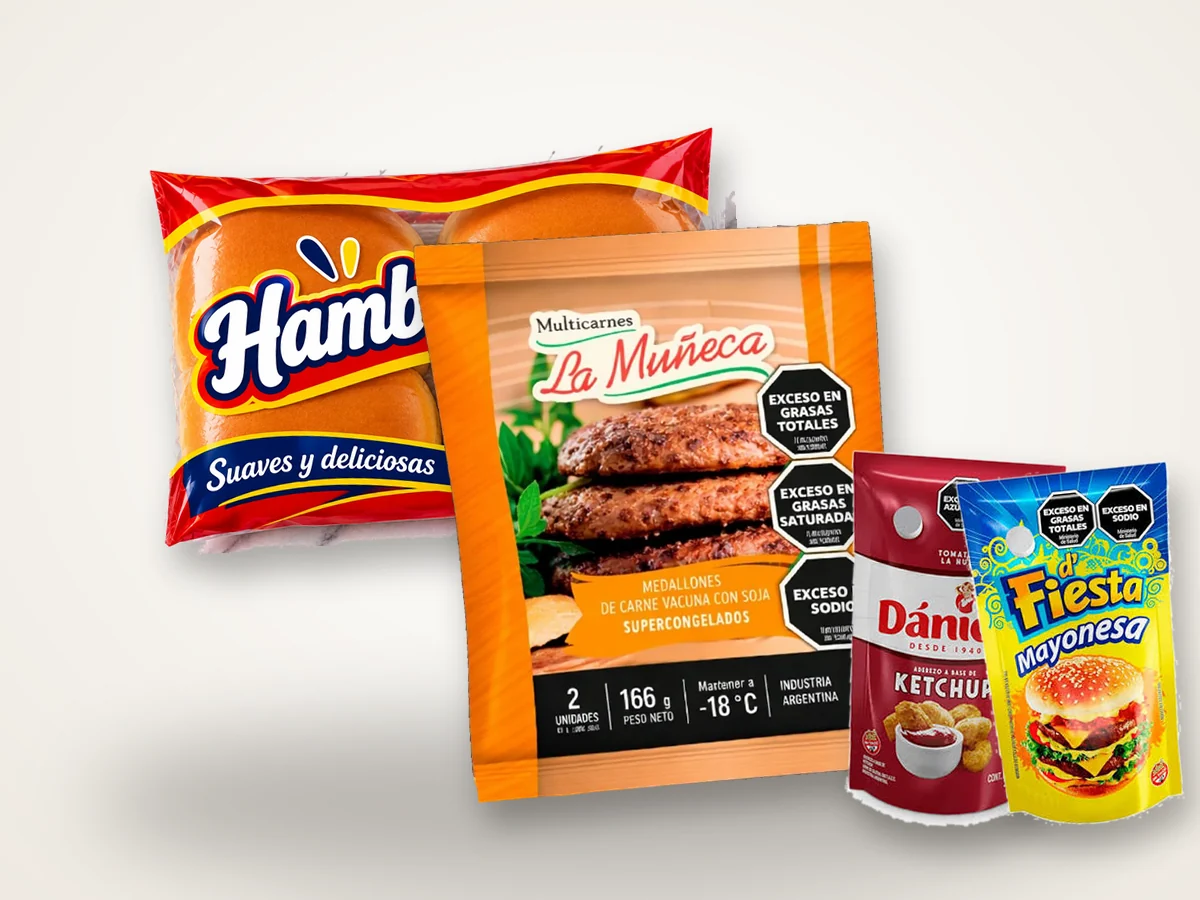
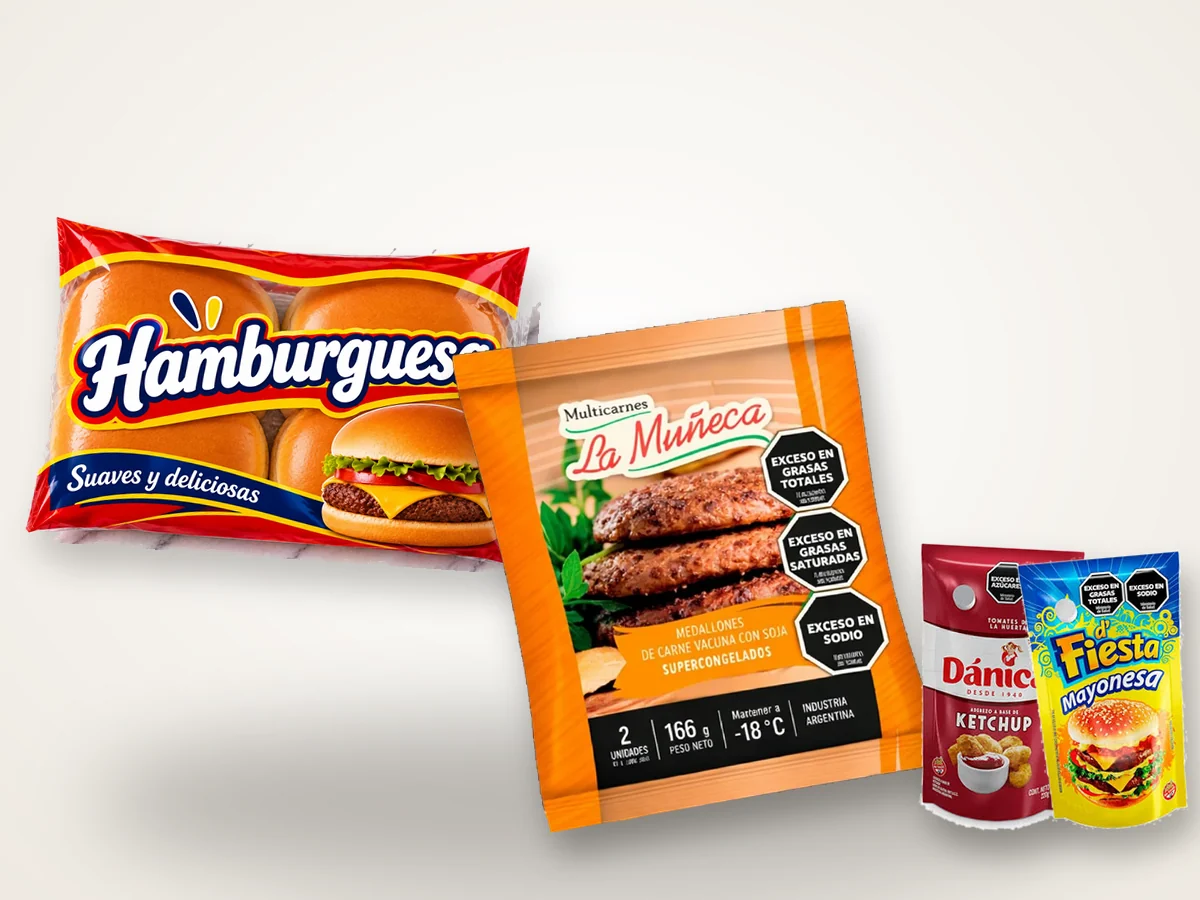
Fotos de combos más prolijas, promos fuera de la foto y salto correcto a cada categoría
- Composiciones nuevas: pan entero, paquete al centro y aderezos al costado, con aire
- Se quita la placa de cheddar/papas pay de la foto (queda el aviso con interruptor)
- Foto del destacado completa, sin recortes
- Los enlaces a categorías corrigen el desplazamiento mientras cargan imágenes

Claude-Session: https://claude.ai/code/session_018TW5pR3W6wvbYrCa5wfTa9

diff --git a/src/lib/scrollToHash.js b/src/lib/scrollToHash.js
@@ -1,0 +1,51 @@
+/**
+ * Scroll a un ancla interna que se corrige mientras cargan imágenes y fuentes.
+ * Sin esto, al tocar "Panchos" la página podía quedar arriba (en Promociones)
+ * porque el contenido anterior cambia de alto después del salto.
+ */
+export function scrollToHash(hash, { smooth = true } = {}) {
+  const el = hash && hash.length > 1 ? document.getElementById(decodeURIComponent(hash.slice(1))) : null
+  if (!el) return false
+  const reduce = window.matchMedia('(prefers-reduced-motion: reduce)').matches
+  el.scrollIntoView({ behavior: smooth && !reduce ? 'smooth' : 'auto', block: 'start' })
+
+  // Durante ~2,5 s, si el destino se movió y el usuario no scrolleó, se reajusta.
+  let userMoved = false
+  const stop = () => (userMoved = true)
+  window.addEventListener('wheel', stop, { passive: true, once: true })
+  window.addEventListener('touchstart', stop, { passive: true, once: true })
+  window.addEventListener('keydown', stop, { once: true })
+  const offset = () => parseFloat(getComputedStyle(el).scrollMarginTop) || 0
+  let last = null
+  const started = performance.now()
+  const tick = () => {
+    if (userMoved || performance.now() - started > 2500) return
+    const top = el.getBoundingClientRect().top - offset()
+    // espera a que termine el scroll suave (posición estable) antes de corregir
+    if (last !== null && Math.abs(top - last) < 1 && Math.abs(top) > 4) {
+      window.scrollBy({ top, behavior: 'auto' })
+    }
+    last = el.getBoundingClientRect().top - offset()
+    setTimeout(tick, 120)
+  }
+  setTimeout(tick, 120)
+  return true
+}
+
+/** Intercepta los clics en enlaces internos (#…) de toda la página. */
+export function installHashLinks() {
+  const onClick = (e) => {
+    if (e.defaultPrevented || e.button !== 0 || e.metaKey || e.ctrlKey || e.shiftKey || e.altKey) return
+    const a = e.target.closest?.('a[href^="#"]')
+    if (!a) return
+    const hash = a.getAttribute('href')
+    if (hash.length < 2 || !document.getElementById(decodeURIComponent(hash.slice(1)))) return
+    e.preventDefault()
+    history.pushState(null, '', hash)
+    // deja que se cierren menús/diálogos (que liberan el scroll del body) antes de desplazar
+    requestAnimationFrame(() => scrollToHash(hash))
+  }
+  document.addEventListener('click', onClick)
+  if (location.hash) setTimeout(() => scrollToHash(location.hash, { smooth: false }), 50)
+  return () => document.removeEventListener('click', onClick)
+}

diff --git a/src/components/product/ProductImage.jsx b/src/components/product/ProductImage.jsx
@@ -3,13 +3,11 @@
  *  - pack:  paquete recortado, centrado sobre un círculo celeste.
  *  - photo: foto real completa sobre su propio fondo desenfocado (sin recortar el paquete).
  *  - por defecto: composición del combo que ocupa todo el recuadro.
- * Si el producto tiene `addon` con `promo` (cheddar / papas pay), muestra la placa promocional
- * chica en la esquina superior derecha, sobre la zona libre de la composición.
+ * Las promos (cheddar / papas pay) no se dibujan sobre la foto: van en el aviso debajo del combo.
  */
 export default function ProductImage({ combo, large = false, className = '', badge }) {
   const anim = 'transition-transform duration-500 group-hover:scale-[1.04] motion-reduce:transition-none'
   const loading = large ? 'eager' : 'lazy'
-  const promo = combo.addon?.promo
   return (
     <div className={`relative aspect-[4/3] overflow-hidden bg-crema ${className}`}>
       {combo.pack ? (
@@ -46,17 +44,6 @@ export default function ProductImage({ combo, large = false, className = '', bad
         <span className="absolute top-0 left-0 bg-rojo px-3 py-1.5 text-[0.7rem] font-extrabold tracking-[0.14em] text-white uppercase">{badge}</span>
       )}
 
-      {promo && (
-        <img
-          src={promo}
-          alt={combo.addon.tag}
-          loading={loading}
-          decoding="async"
-          className={`promo-badge absolute top-2 right-2 rotate-3 rounded-md shadow-[0_10px_24px_-8px_rgb(23_38_56/0.6)] ring-2 ring-white transition-transform duration-300 group-hover:rotate-0 ${
-            large ? 'w-[30%]' : 'w-[33%]'
-          }`}
-        />
-      )}
     </div>
   )
 }

diff --git a/src/components/ComboCard.jsx b/src/components/ComboCard.jsx
@@ -57,7 +57,7 @@ export default function ComboCard({ combo, variant = 'default', badge }) {
 
   const imageButton = (cls, large = false) => (
     <button type="button" onClick={open} className={`group/img relative block w-full text-left ${cls}`} aria-label={`Ver detalle de ${combo.name}`}>
-      <ProductImage combo={combo} large={large} badge={badge} className="h-full" />
+      <ProductImage combo={combo} large={large} badge={badge} className="w-full" />
       <span className="absolute bottom-3 left-3 grid size-10 translate-y-2 place-items-center rounded-full bg-white/95 text-navy opacity-0 shadow-soft transition-[opacity,transform] duration-300 group-hover:translate-y-0 group-hover:opacity-100">
         <ExpandIcon className="size-5" />
       </span>
@@ -97,7 +97,7 @@ export default function ComboCard({ combo, variant = 'default', badge }) {
   if (variant === 'feature') {
     return (
       <article className="group grid overflow-hidden rounded-md bg-white shadow-soft ring-1 ring-navy/10 lg:grid-cols-12">
-        {imageButton('lg:col-span-7 [&>div]:lg:aspect-auto [&>div]:lg:min-h-full', true)}
+        {imageButton('bg-crema lg:col-span-7 lg:flex lg:items-center', true)}
         <div className="flex flex-col gap-4 p-6 sm:p-8 lg:col-span-5">
           <Meta combo={combo} />
           <h3 className="display text-[clamp(2.2rem,4vw,3.2rem)] text-balance text-navy">

diff --git a/src/App.jsx b/src/App.jsx
@@ -10,8 +10,11 @@ import Footer from './components/Footer'
 import FloatingWhatsApp from './components/FloatingWhatsApp'
 import CartDrawer from './components/CartDrawer'
 import { CartProvider } from './cart/CartContext'
+import { useEffect } from 'react'
+import { installHashLinks } from './lib/scrollToHash'
 
 export default function App() {
+  useEffect(() => installHashLinks(), [])
   return (
     <CartProvider>
       <a
